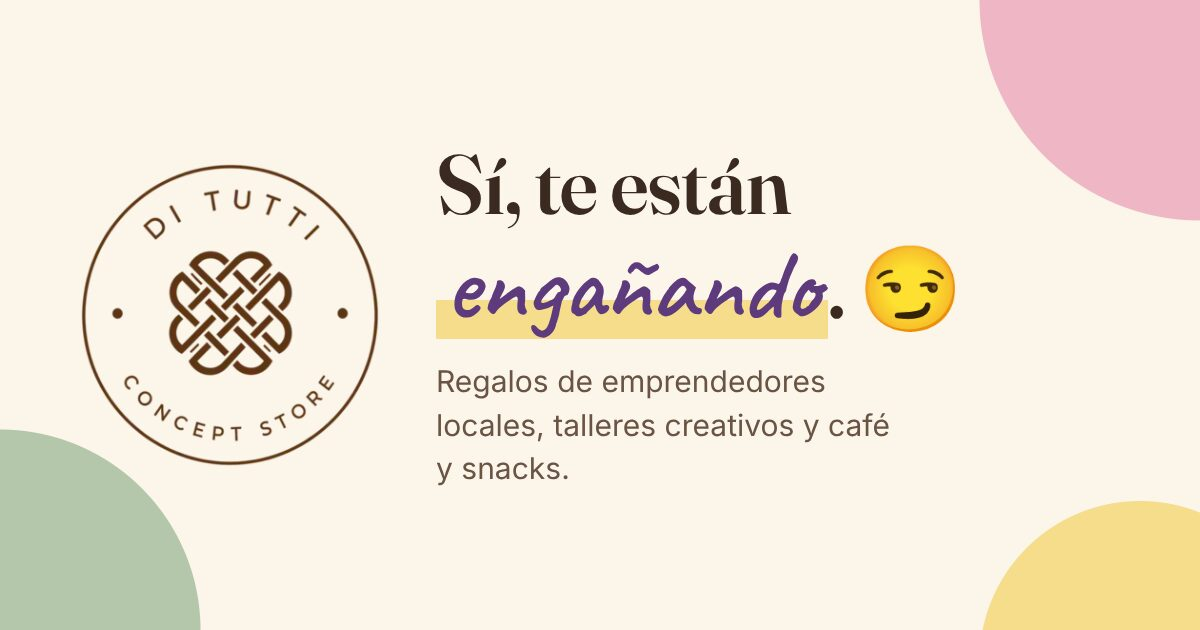
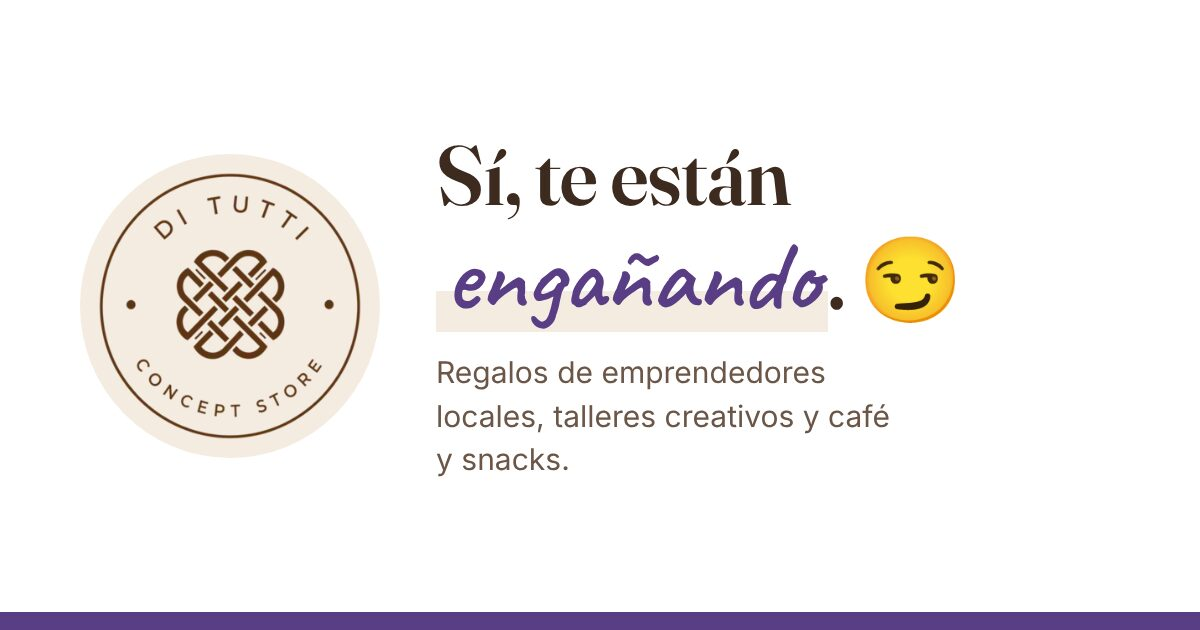
Página del QR: WhatsApp y Facebook, 7 fotos en carrusel y paleta blanco, beige, café y morado
Claude-Session: https://claude.ai/code/session_01X8DrPbMFHR8a2D9EEc7GoA

diff --git a/ditutti-qr/index.html b/ditutti-qr/index.html
@@ -5,10 +5,10 @@
   <meta name="viewport" content="width=device-width, initial-scale=1, viewport-fit=cover">
   <title>DiTutti Concept Store | ¿Te están engañando?</title>
   <meta name="description" content="DiTutti Concept Store en Plaza Santa Mónica, junto a Mundo E: regalos de emprendedores locales, talleres creativos y café y snacks. Entérate de todo en nuestras redes.">
-  <meta name="theme-color" content="#FBF5EA">
+  <meta name="theme-color" content="#FFFFFF">
 
   <!-- Vista previa al compartir (Open Graph) -->
-  <!-- PENDIENTE: si la URL final no es https://jluisrojo.github.io/ditutti-qr/, cámbiala en og:url y og:image -->
+  <!-- Si la dirección de la página cambia, actualízala en og:url y og:image -->
   <meta property="og:type" content="website">
   <meta property="og:locale" content="es_MX">
   <meta property="og:site_name" content="DiTutti Concept Store">
@@ -51,19 +51,19 @@
       <h2 id="t-hay">En DiTutti sí hay algo <span class="mano">diferente</span>:</h2>
       <ul class="lista">
         <li>
-          <span class="icono icono--rosa" aria-hidden="true">
+          <span class="icono" aria-hidden="true">
             <svg viewBox="0 0 24 24"><path d="M20 12v9H4v-9M2 7h20v5H2zM12 21V7M12 7H7.5a2.5 2.5 0 1 1 0-5C11 2 12 7 12 7zM12 7h4.5a2.5 2.5 0 1 0 0-5C13 2 12 7 12 7z"/></svg>
           </span>
           Regalos de emprendedores locales
         </li>
         <li>
-          <span class="icono icono--amarillo" aria-hidden="true">
+          <span class="icono" aria-hidden="true">
             <svg viewBox="0 0 24 24"><path d="M12 22a10 10 0 1 1 10-10c0 2.2-1.8 3-3.5 3H16a2 2 0 0 0-1.5 3.3c.6.8.2 3.7-2.5 3.7z"/><circle cx="7.5" cy="10.5" r="1.2"/><circle cx="11" cy="6.8" r="1.2"/><circle cx="16" cy="8.5" r="1.2"/></svg>
           </span>
           Talleres creativos
         </li>
         <li>
-          <span class="icono icono--salvia" aria-hidden="true">
+          <span class="icono" aria-hidden="true">
             <svg viewBox="0 0 24 24"><path d="M3 9h14v5a6 6 0 0 1-6 6H9a6 6 0 0 1-6-6zM17 10h1.5a2.5 2.5 0 0 1 0 5H17M7 2.5c-.6.8-.6 1.7 0 2.5M11 2.5c-.6.8-.6 1.7 0 2.5"/></svg>
           </span>
           Café y snacks
@@ -71,16 +71,16 @@
       </ul>
     </section>
 
-    <!--
-      IMÁGENES: aquí va la tira de fotos (entre la lista y las redes).
-      Cuando subas fotos a imagenes/, conviértelas a WebP (ver README) y descomenta este bloque:
-
-    <section class="fotos" aria-label="Fotos de DiTutti">
-      <img src="imagenes/foto-1.webp" width="600" height="600" loading="lazy" decoding="async" alt="DESCRIBE AQUÍ LA FOTO 1">
-      <img src="imagenes/foto-2.webp" width="600" height="600" loading="lazy" decoding="async" alt="DESCRIBE AQUÍ LA FOTO 2">
-      <img src="imagenes/foto-3.webp" width="600" height="600" loading="lazy" decoding="async" alt="DESCRIBE AQUÍ LA FOTO 3">
+    <!-- IMÁGENES: desliza con el dedo. Para cambiar una foto, reemplaza el archivo en imagenes/ (mismo nombre) y actualiza su alt. -->
+    <section class="fotos" aria-label="Fotos de DiTutti" tabindex="0">
+      <img src="imagenes/tienda-interior.webp" width="420" height="525" loading="lazy" decoding="async" alt="Interior de DiTutti: estantes con productos de emprendedores y mesas altas para tomar café">
+      <img src="imagenes/taller-pintura.webp" width="420" height="525" loading="lazy" decoding="async" alt="Personas pintando en un taller creativo dentro de DiTutti">
+      <img src="imagenes/velas-flores.webp" width="420" height="525" loading="lazy" decoding="async" alt="Velas artesanales en forma de flores de colores">
+      <img src="imagenes/crochet-principito.webp" width="420" height="525" loading="lazy" decoding="async" alt="Muñeco tejido a crochet del Principito con una rosa">
+      <img src="imagenes/productos-apapacho.webp" width="420" height="525" loading="lazy" decoding="async" alt="Productos naturales Apapacho: mantequilla corporal, aceite esencial y bálsamo para labios">
+      <img src="imagenes/shampoo-romero.webp" width="420" height="525" loading="lazy" decoding="async" alt="Shampoos sólidos de romero de la marca Algo Simple">
+      <img src="imagenes/joyeria.webp" width="420" height="525" loading="lazy" decoding="async" alt="Estante con collares y pulseras dorados">
     </section>
-    -->
 
     <!-- ===== REDES Y CONTACTO ===== -->
     <section class="bloque" aria-labelledby="t-redes">
@@ -94,12 +94,10 @@
           <svg aria-hidden="true" viewBox="0 0 24 24"><path d="M14 3v11.5a3.5 3.5 0 1 1-3.5-3.5M14 3c.4 2.6 2.3 4.4 5 4.6"/></svg>
           TikTok
         </a>
-        <!-- PENDIENTE: enlace de Facebook de DiTutti. Pégalo en CONFIG.facebook (abajo, en el script). Mientras esté vacío, este botón no se muestra. -->
         <a class="boton boton--facebook" data-enlace="facebook" href="#" target="_blank" rel="noopener" hidden>
           <svg aria-hidden="true" viewBox="0 0 24 24"><path d="M15 3h-2.5A3.5 3.5 0 0 0 9 6.5V10H6.5v3.5H9V21h3.5v-7.5H15l.5-3.5h-3V7a1 1 0 0 1 1-1H15z"/></svg>
           Facebook
         </a>
-        <!-- PENDIENTE: número de WhatsApp (52 + 10 dígitos, sin espacios ni signos). Pégalo en CONFIG.whatsapp (abajo, en el script). Mientras esté vacío, este botón no se muestra. -->
         <a class="boton boton--whatsapp" data-enlace="whatsapp" href="#" target="_blank" rel="noopener" hidden>
           <svg aria-hidden="true" viewBox="0 0 24 24"><path d="M4 20l1.2-4A8 8 0 1 1 8 18.8z"/><path d="M9 8.5c0 3 2.5 6.5 6.5 6.5l1-1.5-2-1-1 .8c-1-.4-2-1.4-2.4-2.4l.8-1-1-2z" class="relleno"/></svg>
           WhatsApp
@@ -109,9 +107,9 @@
 
     <!-- ===== UBICACIÓN ===== -->
     <footer class="ubicacion">
-      <!-- PENDIENTE: enlace exacto de Google Maps. Por ahora es una búsqueda de "Plaza Santa Mónica Mundo E". -->
-      <a href="https://www.google.com/maps/search/?api=1&amp;query=Plaza%20Santa%20M%C3%B3nica%20Mundo%20E" target="_blank" rel="noopener">
-        <span aria-hidden="true">📍</span>&nbsp;Plaza Santa Mónica, junto&nbsp;a&nbsp;Mundo&nbsp;E
+      <!-- Mapa: abre Google Maps buscando el negocio. Para usar el enlace exacto, en la app de Maps toca DiTutti → Compartir → Copiar enlace, y pégalo aquí. -->
+      <a href="https://www.google.com/maps/search/?api=1&amp;query=DiTutti%20Concept%20Store%2C%20Plaza%20Santa%20M%C3%B3nica" target="_blank" rel="noopener">
+        <span aria-hidden="true">📍</span>&nbsp;Plaza&nbsp;Santa&nbsp;Mónica, junto&nbsp;a&nbsp;Mundo&nbsp;E
       </a>
     </footer>
 
@@ -123,10 +121,10 @@
        Si un campo está vacío, su botón queda oculto (no hay botones rotos).
        ============================================================ */
     var CONFIG = {
-      // PENDIENTE: enlace completo de Facebook, ej. "https://www.facebook.com/..."
-      facebook: "",
-      // PENDIENTE: 52 + 10 dígitos, sin espacios ni signos (12 dígitos en total)
-      whatsapp: "",
+      // Enlace completo de Facebook. Si lo dejas vacío, el botón se oculta.
+      facebook: "https://www.facebook.com/share/19fk6n8yzA/",
+      // 52 + 10 dígitos, sin espacios ni signos. Si lo dejas vacío, el botón se oculta.
+      whatsapp: "525559416472",
       mensajeWhatsapp: "Hola, vi su cartel y quiero más información"
     };
 

diff --git a/ditutti-qr/estilos.css b/ditutti-qr/estilos.css
@@ -1,20 +1,16 @@
 /* ==========================================================
    COLORES DE DITUTTI
    Cambia aquí los colores de toda la página.
-   (Son propuestas: reemplázalos por los códigos de tu marca.)
+   Paleta: blanco, beige, café y morado (limpia).
    ========================================================== */
 :root {
-  --crema:          #FBF5EA;  /* fondo */
-  --crema-oscura:   #F3E8D6;  /* tarjetas y detalles */
-  --cafe:           #3B2A20;  /* texto principal (tono del logo) */
-  --cafe-suave:     #6A5444;  /* texto secundario */
-  --morado:         #5E3B7D;  /* Instagram, acentos */
-  --rosa:           #EFB7C6;  /* decoración */
-  --rosa-fuerte:    #A8385F;  /* TikTok */
-  --amarillo:       #F5DD8C;  /* subrayado, decoración */
-  --salvia:         #B5C7AA;  /* decoración */
-  --salvia-oscuro:  #3E6644;  /* WhatsApp */
-  --azul-facebook:  #3B5A9A;  /* Facebook */
+  --blanco:         #FFFFFF;  /* fondo */
+  --beige:          #F4ECE1;  /* tarjetas, círculos de íconos, subrayado */
+  --beige-borde:    #E6D9C7;  /* líneas finas */
+  --cafe:           #3E2B20;  /* texto principal (tono del logo) */
+  --cafe-suave:     #6B5647;  /* texto secundario */
+  --morado:         #5A3E85;  /* acentos y botón de WhatsApp */
+  --morado-oscuro:  #46306A;  /* botón al tocarlo */
   --texto-boton:    #FFFFFF;
 
   --fuente-titulos: "Fraunces", Georgia, "Times New Roman", serif;
@@ -31,13 +27,7 @@ html { -webkit-text-size-adjust: 100%; }
 body {
   margin: 0;
   min-height: 100vh;
-  background-color: var(--crema);
-  /* manchas suaves de color, como acuarela */
-  background-image:
-    radial-gradient(circle at 105% -5%, color-mix(in srgb, var(--rosa) 55%, transparent) 0 120px, transparent 121px),
-    radial-gradient(circle at -12% 38%, color-mix(in srgb, var(--salvia) 45%, transparent) 0 110px, transparent 111px),
-    radial-gradient(circle at 110% 82%, color-mix(in srgb, var(--amarillo) 55%, transparent) 0 130px, transparent 131px);
-  background-repeat: no-repeat;
+  background: var(--blanco);
   color: var(--cafe);
   font-family: var(--fuente-texto);
   font-size: 17px;
@@ -88,14 +78,13 @@ body {
   letter-spacing: 0;
 }
 .subrayado {
-  background: linear-gradient(transparent 62%, var(--amarillo) 62% 92%, transparent 92%);
+  background: linear-gradient(transparent 62%, var(--beige) 62% 94%, transparent 94%);
   padding: 0 0.08em;
 }
 
 /* ---------- bloques ---------- */
 .bloque {
-  background: color-mix(in srgb, #fff 55%, var(--crema));
-  border: 1.5px solid var(--crema-oscura);
+  background: var(--beige);
   border-radius: var(--radio);
   padding: 18px 16px 20px;
   margin-top: 16px;
@@ -130,11 +119,9 @@ body {
   border-radius: 50%;
   display: grid;
   place-items: center;
-  color: var(--cafe);
+  background: var(--blanco);
+  color: var(--morado);
 }
-.icono--rosa     { background: var(--rosa); }
-.icono--amarillo { background: var(--amarillo); }
-.icono--salvia   { background: var(--salvia); }
 .icono svg, .boton svg {
   width: 22px;
   height: 22px;
@@ -144,23 +131,31 @@ body {
   stroke-linecap: round;
   stroke-linejoin: round;
 }
-.icono .relleno, .icono circle, .boton .relleno { fill: currentColor; stroke: none; }
+.icono circle, .boton .relleno { fill: currentColor; stroke: none; }
 .boton circle:not(.relleno) { fill: none; stroke: currentColor; }
 
-/* ---------- fotos (cuando se agreguen) ---------- */
+/* ---------- fotos: carrusel que se desliza con el dedo ---------- */
 .fotos {
-  display: grid;
-  grid-template-columns: repeat(3, 1fr);
-  gap: 8px;
-  margin-top: 16px;
+  display: flex;
+  gap: 10px;
+  overflow-x: auto;
+  scroll-snap-type: x mandatory;
+  scroll-padding: 0 16px;
+  margin: 16px -16px 0;          /* de orilla a orilla en el celular */
+  padding: 0 16px 6px;
+  scrollbar-width: none;
 }
+.fotos::-webkit-scrollbar { display: none; }
 .fotos img {
-  width: 100%;
+  flex: none;
+  width: 62%;
+  max-width: 240px;
   height: auto;
-  aspect-ratio: 1;
+  aspect-ratio: 4 / 5;
   object-fit: cover;
   border-radius: 14px;
-  background: var(--crema-oscura);
+  background: var(--beige);
+  scroll-snap-align: start;
 }
 
 /* ---------- botones de redes ---------- */
@@ -176,24 +171,29 @@ body {
   min-height: 52px;
   padding: 12px 18px;
   border-radius: 999px;
-  color: var(--texto-boton);
   text-decoration: none;
   font-weight: 700;
   font-size: 1.06rem;
-  box-shadow: 0 3px 0 color-mix(in srgb, var(--cafe) 25%, transparent);
-  transition: transform .12s ease, box-shadow .12s ease;
+  background: var(--blanco);
+  color: var(--cafe);
+  border: 2px solid var(--cafe);
+  transition: transform .12s ease, background-color .12s ease;
   -webkit-tap-highlight-color: transparent;
 }
 .boton[hidden] { display: none; }
-.boton:active { transform: translateY(2px); box-shadow: 0 1px 0 color-mix(in srgb, var(--cafe) 25%, transparent); }
+.boton:active { transform: scale(.98); background: var(--beige); }
 .boton:focus-visible, .ubicacion a:focus-visible {
-  outline: 3px solid var(--cafe);
+  outline: 3px solid var(--morado);
   outline-offset: 3px;
 }
-.boton--instagram { background: var(--morado); }
-.boton--tiktok    { background: var(--rosa-fuerte); }
-.boton--facebook  { background: var(--azul-facebook); }
-.boton--whatsapp  { background: var(--salvia-oscuro); order: -1; } /* cuando aparezca, va primero */
+/* WhatsApp: el botón principal, relleno y primero */
+.boton--whatsapp {
+  order: -1;
+  background: var(--morado);
+  border-color: var(--morado);
+  color: var(--texto-boton);
+}
+.boton--whatsapp:active { background: var(--morado-oscuro); }
 
 /* ---------- ubicación ---------- */
 .ubicacion {
@@ -209,8 +209,8 @@ body {
   color: var(--cafe);
   font-weight: 600;
   text-decoration: underline;
-  text-decoration-color: var(--rosa);
-  text-decoration-thickness: 3px;
+  text-decoration-color: var(--morado);
+  text-decoration-thickness: 2px;
   text-underline-offset: 4px;
   border-radius: 12px;
 }
@@ -220,8 +220,12 @@ body {
   body { font-size: 18px; }
   .pagina { max-width: 560px; padding-top: 48px; }
   .logo { width: 120px; }
-  .botones { grid-template-columns: 1fr 1fr; }
-  .boton:hover { transform: translateY(-1px); }
+  .botones { grid-template-columns: repeat(3, 1fr); }
+  .boton--whatsapp { grid-column: 1 / -1; }
+  .boton:hover { background: var(--beige); }
+  .boton--whatsapp:hover { background: var(--morado-oscuro); }
+  .fotos { margin: 16px 0 0; padding: 0 0 6px; scroll-padding: 0; }
+  .fotos img { width: 200px; }
 }
 
 @media (prefers-reduced-motion: reduce) {

diff --git a/ditutti-qr/README.md b/ditutti-qr/README.md
@@ -18,24 +18,27 @@ Al final de `index.html` está esto:
 
 ```js
 var CONFIG = {
-  facebook: "",          // ej. "https://www.facebook.com/tu-pagina"
-  whatsapp: "",          // 52 + 10 dígitos, ej. "52XXXXXXXXXX"
+  facebook: "https://www.facebook.com/share/19fk6n8yzA/",
+  whatsapp: "525559416472",   // 52 + 10 dígitos, sin espacios
   mensajeWhatsapp: "Hola, vi su cartel y quiero más información"
 };
 ```
 
-Pega el dato entre las comillas y guarda. El botón aparece solo cuando el dato es válido; si lo dejas vacío, el botón se oculta.
+Cambia el dato entre las comillas y guarda. Si dejas un dato vacío (`""`), su botón se oculta.
 
 ## Cambiar colores
-Al inicio de `estilos.css`, en el bloque `:root`, cambia los códigos (ej. `--morado: #5E3B7D;`). Toda la página se actualiza.
-Si cambias el color de un botón, cuida que el texto blanco se lea bien (fondo oscuro).
+Al inicio de `estilos.css`, en el bloque `:root`, cambia los códigos: `--blanco`, `--beige`, `--cafe` y `--morado` (ej. `--morado: #5A3E85;`). Toda la página se actualiza.
+El botón de WhatsApp lleva texto blanco sobre `--morado`: usa un morado oscuro para que se lea bien.
 
 ## Cambiar o agregar imágenes
-1. Convierte cada foto a WebP de máximo ~200 KB y 1200 px. Opciones:
-   - Sin instalar nada: [squoosh.app](https://squoosh.app) → formato WebP, calidad ~75, ancho 1200.
-   - Con ImageMagick: `magick foto.jpg -resize 1200x1200\> -quality 75 imagenes/foto-1.webp`
-2. Guárdalas en `imagenes/` como `foto-1.webp`, `foto-2.webp`, `foto-3.webp`.
-3. En `index.html`, busca el comentario `IMÁGENES`, borra las líneas `<!--` y `-->` que lo envuelven y escribe en cada `alt="…"` qué se ve en la foto (ej. "Mesa con velas y jabones artesanales").
+Las fotos están en `imagenes/` y aparecen en una tira que se desliza con el dedo, entre la lista y las redes.
+
+1. Convierte la foto a WebP, de máximo ~200 KB (las actuales miden 420×525 px y pesan 15–45 KB):
+   - Sin instalar nada: en [squoosh.app](https://squoosh.app) elige formato WebP, calidad ~70 y ancho 420.
+   - Con ImageMagick: `magick foto.jpg -resize 420x525^ -gravity center -extent 420x525 -quality 66 imagenes/nombre.webp`
+2. **Cambiar una foto:** guárdala con el mismo nombre que la anterior (ej. `velas-flores.webp`) y actualiza su `alt` en `index.html`.
+3. **Agregar una foto:** en `index.html`, dentro de `<section class="fotos">`, copia una línea `<img …>` y cambia el nombre del archivo y el `alt` (describe qué se ve en la foto).
+4. **Quitar una foto:** borra su línea `<img …>`.
 
 Logo: reemplaza `imagenes/logo-ditutti.webp` (mismo nombre). Favicon: `favicon-48.png` y `apple-touch-icon.png`.
 

diff --git a/ditutti-qr/PENDIENTES.md b/ditutti-qr/PENDIENTES.md
@@ -1,14 +1,9 @@
-# Pendientes — página del QR de DiTutti
+# Pendientes: página del QR de DiTutti
 
-Mientras falte un enlace, su botón **no se muestra** (no hay botones rotos).
+Ya completado: WhatsApp (55 5941 6472), Facebook, fotos y colores (blanco, beige, café y morado).
 
-| # | Qué falta | Dónde se pega | Estado actual |
-|---|-----------|---------------|---------------|
-| 1 | Enlace de Facebook de DiTutti | `index.html` → `CONFIG.facebook` (en el `<script>` del final) | Botón oculto |
-| 2 | Número de WhatsApp: 52 + 10 dígitos, sin espacios ni signos (ej. `52XXXXXXXXXX`) | `index.html` → `CONFIG.whatsapp` | Botón oculto. El mensaje "Hola, vi su cartel y quiero más información" ya está listo. |
-| 3 | Enlace exacto de Google Maps | `index.html` → el enlace dentro de `<footer class="ubicacion">` | Por ahora es una **búsqueda** de "Plaza Santa Mónica Mundo E" |
-| 4 | Fotos para la carpeta `imagenes/` | Ver README → "Cambiar o agregar imágenes" | No se recibieron fotos. La tira de fotos está lista pero comentada en `index.html` (va entre la lista y las redes) |
-| 5 | Confirmar la URL final | `index.html` → `og:url` y `og:image` | Puse `https://jluisrojo.github.io/ditutti-qr/`. Si el repositorio queda en otra cuenta, hay que cambiarla |
-| 6 | Códigos de color de la marca | `estilos.css` → bloque `:root` al inicio | Colores propuestos (crema, café, morado, rosa, amarillo, salvia) |
-
-> Nota sobre el WhatsApp: en tu otro proyecto (página de talleres) aparece el número `525559416472`. No lo usé porque aquí lo marcaste como pendiente; si es el mismo, solo pégalo en `CONFIG.whatsapp`.
+| # | Qué falta | Qué hacer |
+|---|-----------|-----------|
+| 1 | Publicar la página | Crear el repositorio `ditutti-qr`, subir los archivos y activar GitHub Pages (pasos en el README). |
+| 2 | Enlace exacto de Google Maps (opcional) | El botón de ubicación abre Google Maps buscando "DiTutti Concept Store, Plaza Santa Mónica". El enlace que enviaste es una página de búsqueda de Google desde un celular Samsung, y puede no abrir bien en iPhone o en computadora. Para el enlace exacto: en la app de Google Maps abre DiTutti, toca **Compartir** y luego **Copiar enlace** (empieza con `https://maps.app.goo.gl/`). Pégalo en `index.html`, dentro de `<footer class="ubicacion">`. |
+| 3 | Revisar en un celular real | Probarla en un iPhone y en un Android antes de imprimir el QR. |
